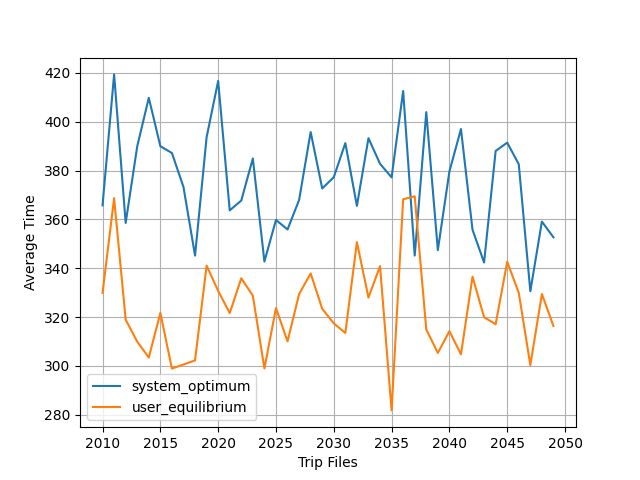
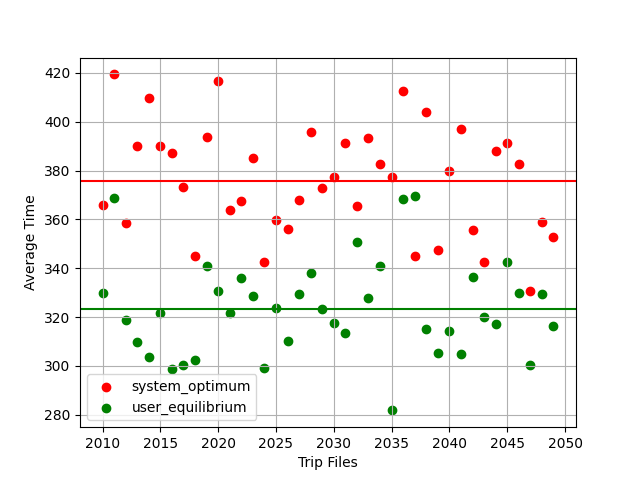
added in line averages to the graph log

Changed region(s): [[0.125, 0.125, 0.9062, 0.875], [0.1562, 0.8438, 0.1875, 0.875], [0.1562, 0.7812, 0.1875, 0.8125]]

diff --git a/reformat/sim_results/graph_log.py b/reformat/sim_results/graph_log.py
@@ -34,19 +34,35 @@ def main():
                 trip_data[algo][trip_size] = trip_data[algo].get(trip_size, []) + [avg_time]
                 total_avg_times[algo].append(avg_time)
 
+    line_colors = ['blue', 'red', 'green']  # Change this to your desired sequence of colors
+    
+    
+    i = 1
     for algo, sizes in trip_data.items():
-        plt.plot(list(sizes.keys()), [sum(times)/len(times) for times in sizes.values()], label=algo)
+        if i == 2: plot_colour = 'green'
+        elif i == 1 : plot_colour = 'red'
+        i = i+1
+        plt.scatter(list(sizes.keys()), [sum(times)/len(times) for times in sizes.values()], label=algo,color=plot_colour )
 
     plt.xlabel('Trip Files')
     plt.ylabel('Average Time')
     plt.title(' ')
     plt.legend()
     plt.grid(True)
- 
+    i = 1
+    so_avg = 0
+    ue_avg = 0
     for algo, avg_times in total_avg_times.items():
         avg_of_avg = sum(avg_times) / len(avg_times)
+        if i == 1: ue_avg = avg_of_avg
+        elif i == 2 : so_avg = avg_of_avg
+        i = i +1;
         print(f"Average of the average times for {algo}: {avg_of_avg}")
+
     
+    plt.axhline(ue_avg, color='red')
+    plt.axhline(so_avg, color= 'green')
+
     plt.savefig(fname + '.png')  # Saving the plot as a PNG file
     plt.show()
 
